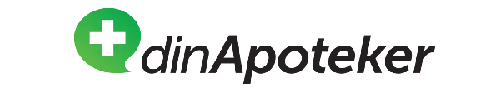
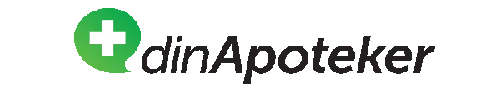
general picture size reduced

diff --git a/vue-project/MapleLeaf/src/components/ChildVitamin/vitamins.vue b/vue-project/MapleLeaf/src/components/ChildVitamin/vitamins.vue
@@ -19,21 +19,27 @@ import BadgeStrength from "../../assets/icons/BadgeStrength.png";
 import BadgeSun from "../../assets/icons/BadgeSun.png";
 
 import HudIcon from "../../assets/icons/HudIcon.png";
+import KnogleIcon from "../../assets/icons/KnogleIcon.png";
+import VinterIcon from "../../assets/icons/VinterIcon.png";
+import MuskelIcon from "../../assets/icons/MuskelIcon.png";
 
 
 let showVitamins = ref(true);
 let ChildVitamins = ref([
-    {type:"D", badges:[BadgeSun,BadgeBone],img: DVit,fullName:true,effects:["skin","bones"], color:"#FC9494", desc:"A-vitamin bidrager til at vedligeholde normalt syn og normal hud"},
-    {type:"C", badges:[BadgeShield,BadgeEnergy],img: DVit,fullName:true,effects:["",""], color:"#E6FFD6", desc:"A-vitamin bidrager til at vedligeholde normalt syn og normal hud"},
-    {type:"Calcium", badges:[BadgeBone,BadgeHeart],img: DVit,fullName:false,effects:["",""], color:"#E6FFD6", desc:"A-vitamin bidrager til at vedligeholde normalt syn og normal hud"},
-    {type:"Magnesium", badges:[BadgeStrength,BadgeSleep],img: DVit,fullName:false,effects:["",""],color:"##E6FFD6", desc:"A-vitamin bidrager til at vedligeholde normalt syn og normal hud"},
-    {type:"Jern", badges:[BadgeBlood,BadgeEnergy],img: DVit,fullName:false,effects:["",""], color:"#E6FFD6", desc:"A-vitamin bidrager til at vedligeholde normalt syn og normal hud"},
-    {type:"Multi", badges:[BadgeHappy,BadgeMulti],img: DVit,fullName:true,effects:["",""], color:"#E6FFD6", desc:"A-vitamin bidrager til at vedligeholde normalt syn og normal hud"}
+    {type:"D", badges:[BadgeSun,BadgeBone],img: DVit,fullName:true,effects:["skin","bones","winter","muscle"], color:"#FC9494", desc:"A-vitamin bidrager til at vedligeholde normalt syn og normal hud"},
+    {type:"C", badges:[BadgeShield,BadgeEnergy],img: DVit,fullName:true,effects:["skin"], color:"#E6FFD6", desc:"A-vitamin bidrager til at vedligeholde normalt syn og normal hud"},
+    {type:"Calcium", badges:[BadgeBone,BadgeHeart],img: DVit,fullName:false,effects:["winter"], color:"#E6FFD6", desc:"A-vitamin bidrager til at vedligeholde normalt syn og normal hud"},
+    {type:"Magnesium", badges:[BadgeStrength,BadgeSleep],img: DVit,fullName:false,effects:["muscle"],color:"##E6FFD6", desc:"A-vitamin bidrager til at vedligeholde normalt syn og normal hud"},
+    {type:"Jern", badges:[BadgeBlood,BadgeEnergy],img: DVit,fullName:false,effects:["bones"], color:"#E6FFD6", desc:"A-vitamin bidrager til at vedligeholde normalt syn og normal hud"},
+    {type:"Multi", badges:[BadgeHappy,BadgeMulti],img: DVit,fullName:true,effects:[], color:"#E6FFD6", desc:"A-vitamin bidrager til at vedligeholde normalt syn og normal hud"}
 
 ]);
 const effectList = {
     skin: {title:"Sund hud",text:"Bidrager til blød, stærk og modstandsdygtig hud.", img: HudIcon},
-    bones: {title:"Knogler og tænder",text:"", img: HudIcon}
+    winter: {title:"Vækst & Udvikling",text:"Ekstra vigtigt om vinteren, når der er mindre sollys, som naturligt danner D-vitamin i kroppen.", img: VinterIcon},
+    muscle: {title:"Muskelfunktion",text:"Essentielt for normal vækst og udvikling af celler og væv.", img: MuskelIcon},
+    bones: {title:"Knogler og tænder",text:"Hjælper kroppen med at optage kalk og opbygge sunde knogler og tænder.", img: KnogleIcon}
+
 };
 let selectedVitamin = ref(ChildVitamins.value[0]);
 
@@ -156,9 +162,12 @@ const effect4 = useTemplateRef('fourth');
         </div>
         <div class="effectArea">
             <div v-for="(effect,index) in selectedVitamin.effects" class="effectContainer">
-                <div v-if="effect">
+                <div v-if="effect" class="effectBox">
                     <img :src=effectList[effect].img alt="">
-                    <p>{{ effectList[effect].text }}</p>
+                    <div class="effectDesc">
+                        <h3>{{ effectList[effect].title }}</h3>
+                        <p>{{ effectList[effect].text }}</p>
+                    </div>
                 </div>
             </div>
 
@@ -410,6 +419,7 @@ justify-content:center;
 }
 .effectArea{
     display: flex;
+    flex-wrap: wrap;
     width: 100%;
     padding: 0 10%;
 }
@@ -417,16 +427,19 @@ justify-content:center;
     width: 50%;
 
 }
-.effectContainer div{
+.effectBox{
     width: 100%;
     display: flex;
     flex-direction: row;
     align-items: center;
     justify-content: center;
 }
-.effectContainer div p{
- width: 70%;
- padding: 10px;
+.effectDesc{
+    
+    display: flex;
+    flex-direction: column;
+    width: 70%;
+    padding: 10px;
 }
 .effectContainer div img{
     width: 20%;

diff --git a/vue-project/MapleLeaf/src/components/Header.vue b/vue-project/MapleLeaf/src/components/Header.vue
@@ -20,7 +20,6 @@
                 <img src="../assets//icons/UserIcon.png" alt="">
                 <h3>Log ind</h3>
             </a>
-
         </div>
 
 
